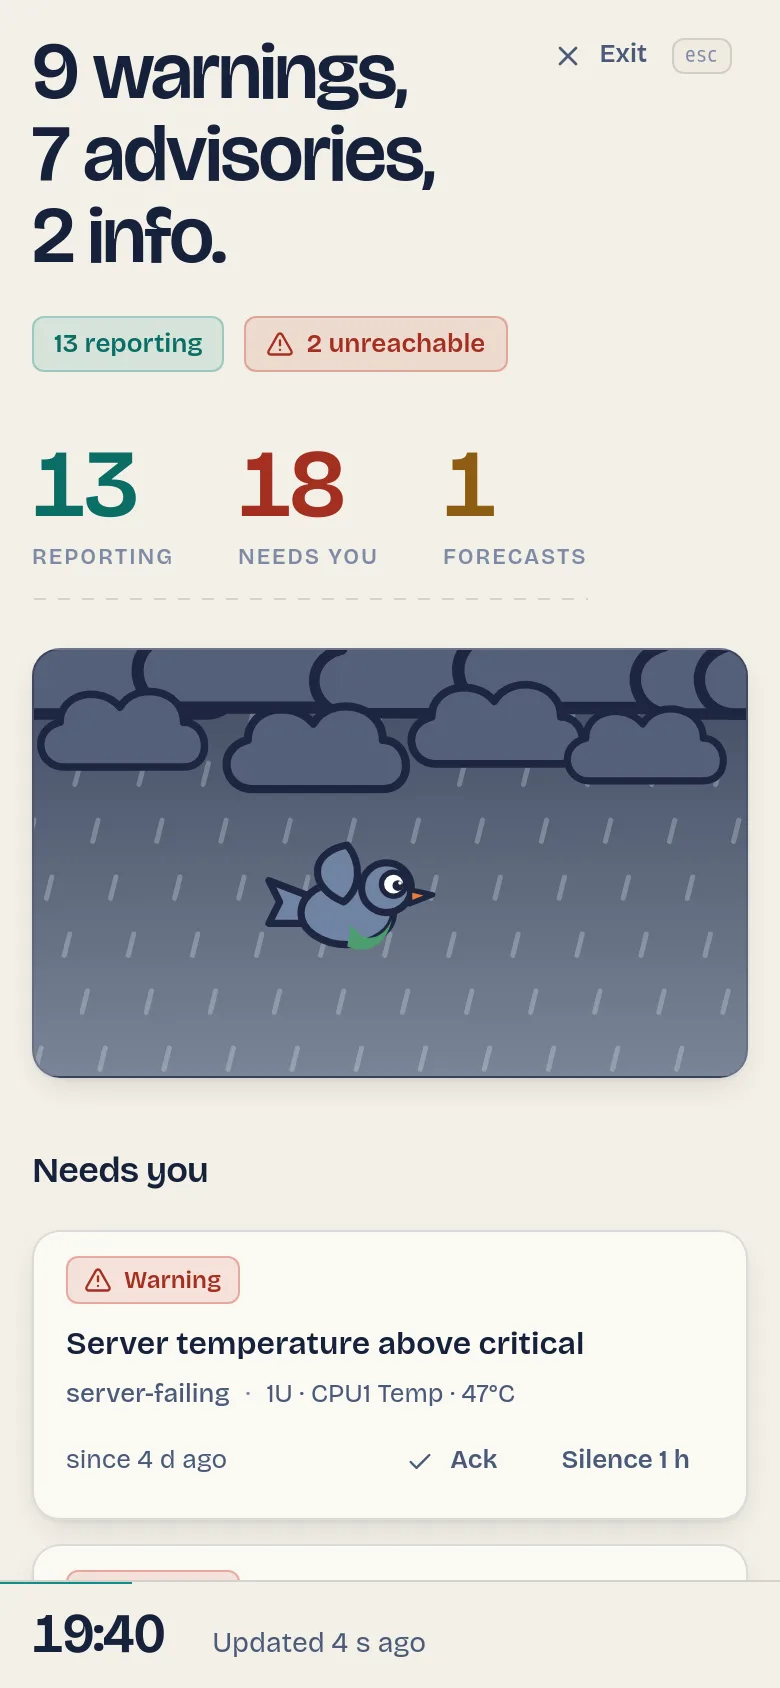
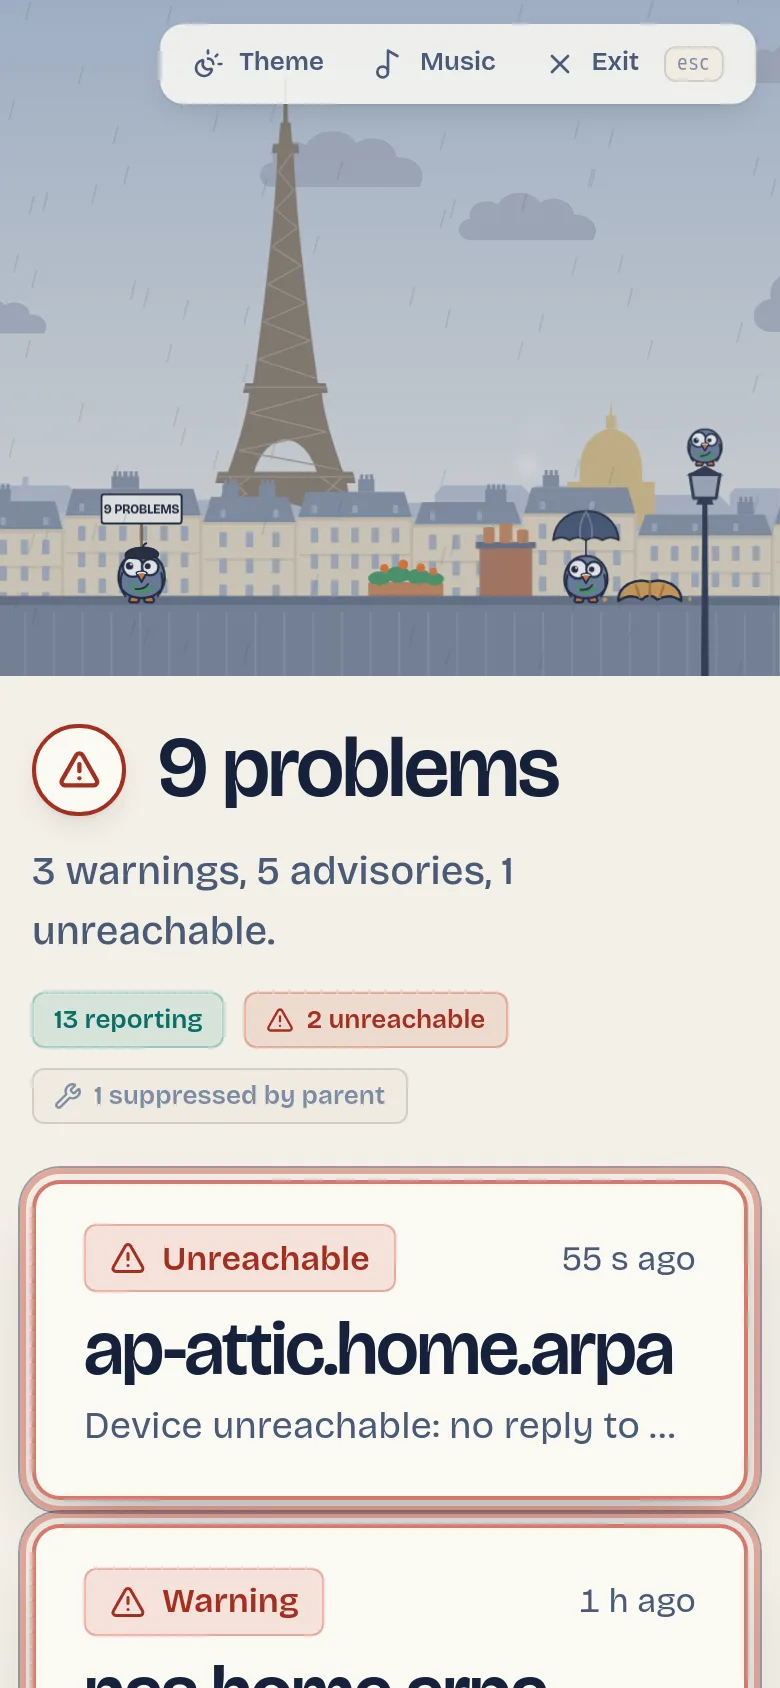
Update the website for Active Directory, the git forges, and the Paris wall
Add Active Directory, GitLab/Forgejo, Nginx/Apache, website change
detection, Synology Drive/Photos, security score, and the snooze/ignore/
clear alert actions to the feature rack and points lists. Mention account
auto-creation being off by default under Accounts.

Refresh the wall-mode hero and phone screenshots (light/dark) against a
live instance to show the new Paris rooftop scene with the Eiffel Tower
and pigeons, replacing the pre-redesign weather window. Verified desktop
(1440px) and mobile (390px) rendering in both themes with a headless
Chromium.

Claude-Session: https://claude.ai/code/session_01T6viFYu2eCRBQzde6eB79H

diff --git a/website/index.html b/website/index.html
@@ -4,7 +4,7 @@
 <meta charset="utf-8">
 <meta name="viewport" content="width=device-width, initial-scale=1">
 <title>DumbMonit: dumb-simple monitoring for homelabs and small teams</title>
-<meta name="description" content="Self-hosted monitoring in one container: SNMP, Proxmox, Synology, TrueNAS, OPNsense, an agent for Linux and Windows, uptime checks and quiet alerts. Open source, Apache 2.0. Alpha.">
+<meta name="description" content="Self-hosted monitoring in one container: SNMP, Proxmox, Synology, TrueNAS, OPNsense, Active Directory, an agent for Linux and Windows, uptime checks and quiet alerts. Open source, Apache 2.0. Alpha.">
 <meta name="color-scheme" content="light dark">
 <meta name="theme-color" content="#f3efe6" media="(prefers-color-scheme: light)">
 <meta name="theme-color" content="#0a1020" media="(prefers-color-scheme: dark)">
@@ -91,7 +91,7 @@
 					<img src="assets/shots/wall-light.webp" alt="Wall mode: the sentence '9 warnings, 7 advisories, 2 info.', readouts for reporting devices, alerts and forecasts, a stormy weather window with the pigeon, and the alerts that need you" width="1440" height="670" fetchpriority="high">
 				</picture>
 			</div>
-			<figcaption>The bulletin, on the wall screen of a test instance with failures switched on. On a quiet day it reads “Clear skies.”</figcaption>
+			<figcaption>The bulletin, on the wall screen of a test instance with failures switched on &mdash; the weather window is a living Paris rooftop with the pigeons. On a quiet day it reads “Clear skies.”</figcaption>
 		</figure>
 	</div>
 </section>
@@ -127,6 +127,7 @@
 					<li><span class="led led-advisory" aria-hidden="true"></span><span class="name">Proxmox Datacenter Manager <span class="plate plate-advisory">Test instance only</span></span><span class="what">Which clusters and backup servers the console still reaches, the whole estate on one page, failed tasks on every site.</span></li>
 					<li><span class="led led-advisory" aria-hidden="true"></span><span class="name">Server hardware (Redfish) <span class="plate plate-advisory">Reference mockups only</span></span><span class="what">Fans, temperatures against the hardware's own thresholds, power supplies and redundancy, drives, memory, the event log. Checked against the DMTF mockups, not yet a real iDRAC, iLO or Supermicro board.</span></li>
 					<li><span class="led" aria-hidden="true"></span><span class="name">Machines with the agent</span><span class="what">Linux and Windows, with macOS and FreeBSD in preview. <a href="#agent">More below.</a></span></li>
+					<li><span class="led" aria-hidden="true"></span><span class="name">Active Directory</span><span class="what">A Windows domain over LDAP with a plain, unprivileged account: FSMO roles, privileged groups, and the facts a domain audit looks for first — Kerberoastable accounts, old krbtgt password, computers without LAPS.</span></li>
 				</ul>
 			</div>
 
@@ -134,7 +135,7 @@
 				<h3>Storage and backups</h3>
 				<ul class="faceplates">
 					<li><span class="led" aria-hidden="true"></span><span class="name">Proxmox Backup Server</span><span class="what">A 30-day backup calendar per machine, failed tasks with their logs, verify and GC jobs, datastore fill-up forecast.</span></li>
-					<li><span class="led" aria-hidden="true"></span><span class="name">Synology DSM</span><span class="what">Volumes, pools, disks and SMART, temperature, Hyper Backup and Active Backup for Business with the age of the last success.</span></li>
+					<li><span class="led" aria-hidden="true"></span><span class="name">Synology DSM</span><span class="what">Volumes, pools, disks and SMART, temperature, Hyper Backup and Active Backup for Business with the age of the last success, plus Drive and Photos package status.</span></li>
 					<li><span class="led led-advisory" aria-hidden="true"></span><span class="name">TrueNAS <span class="plate plate-advisory">Test instance only</span></span><span class="what">The pool that lost a disk and still serves data, with the disk named; scrubs, quotas, snapshots, replication, SMART.</span></li>
 					<li><span class="led" aria-hidden="true"></span><span class="name">Plakar backups</span><span class="what">Age and result of the last snapshot per repository, through the agent.</span></li>
 				</ul>
@@ -143,10 +144,13 @@
 			<div class="rack-group">
 				<h3>Services and applications</h3>
 				<ul class="faceplates">
-					<li><span class="led" aria-hidden="true"></span><span class="name">Uptime checks</span><span class="what">HTTP(S) with status, keyword, JSON path and certificate; TCP port; DNS records; ping; TLS certificate expiry. History bar, response time, availability.</span></li>
+					<li><span class="led" aria-hidden="true"></span><span class="name">Uptime checks</span><span class="what">HTTP(S) with status, keyword, JSON path and certificate; TCP port; DNS records; ping; TLS certificate expiry; NTP offset and stratum. History bar, response time, availability.</span></li>
 					<li><span class="led" aria-hidden="true"></span><span class="name">Application sessions</span><span class="what">SMTP, PostgreSQL, MySQL and MariaDB, MQTT and WebSocket: a real login or handshake, so “up but refusing you” is not reported as “up”.</span></li>
 					<li><span class="led" aria-hidden="true"></span><span class="name">Heartbeats</span><span class="what">A cron job or backup script calls a secret URL; when it stops calling, you hear about it. Uptime Kuma push-compatible.</span></li>
 					<li><span class="led" aria-hidden="true"></span><span class="name">Docker containers</span><span class="what">State, health, restarts, image age and available updates, through the agent. Opt-in restart and update inside a maintenance window.</span></li>
+					<li><span class="led" aria-hidden="true"></span><span class="name">Website change detection</span><span class="what">Watch a page, or a whole site crawled from its sitemap, for changes in its visible text: before/after text, a line diff and, when available, screenshots.</span></li>
+					<li><span class="led" aria-hidden="true"></span><span class="name">GitLab and Forgejo/Gitea</span><span class="what">Sidekiq queues, CI/CD runners, scheduled tasks and database migrations on a self-managed Git forge. An ordinary access token proves the instance is up.</span></li>
+					<li><span class="led" aria-hidden="true"></span><span class="name">Nginx and Apache</span><span class="what">Active/idle workers or connections, request and byte rates, through <code>stub_status</code> or <code>mod_status</code>. No account needed.</span></li>
 					<li><span class="led led-advisory" aria-hidden="true"></span><span class="name">Proxmox Mail Gateway <span class="plate plate-advisory">Test instance only</span></span><span class="what">Postfix queues and the oldest stuck message, mail filtered today, quarantine sizes, the age of antivirus and antispam signatures.</span></li>
 				</ul>
 			</div>
@@ -200,7 +204,7 @@
 				</div>
 				<ul class="points">
 					<li><strong>Dependencies</strong><p>Declare a switch as the parent of what sits behind it. When it goes down you get one notification, not thirty; the others read “Suppressed by parent”.</p></li>
-					<li><strong>Grouped by host</strong><p>A NAS whose array degrades sends one message per cycle, not one per disk. Reminders, escalation and acknowledgement (“I know, stop reminding me”) are built in.</p></li>
+					<li><strong>Grouped by host</strong><p>A NAS whose array degrades sends one message per cycle, not one per disk. Reminders, escalation, acknowledgement, snooze, per-device ignore and clearing resolved history are all built in.</p></li>
 					<li><strong>Baselines that learn first</strong><p>Anomaly detection with no threshold to tune: 168 buckets, one per hour of the week. It stays silent for its first 14 days and only shows what it would have fired.</p></li>
 					<li><strong>Forecasts</strong><p>“This filesystem will be full within four days” is listed as a forecast, apart from what is broken right now.</p></li>
 					<li><strong>Maintenance and a notification policy</strong><p>One-off or weekly windows, hysteresis, flap hold, quiet hours, batching and an hourly cap, so a bad night does not become two hundred pushes.</p></li>
@@ -270,8 +274,9 @@ curl -sSL http://server:8080/install.sh | sh -s -- \
 			</div>
 			<div>
 				<ul class="points">
-					<li><strong>Wall mode</strong><p>The bulletin alone, full screen, for a room monitor. It keeps the screen awake.</p></li>
-					<li><strong>Accounts</strong><p>Admin and viewer roles, optional TOTP second factor, an audit log, and single sign-on over OpenID Connect (Authentik, Authelia, Keycloak, Pocket ID…).</p></li>
+					<li><strong>Wall mode</strong><p>The bulletin alone, full screen, for a room monitor: a living Paris rooftop with the Eiffel Tower and the DumbMonit pigeons, an OLED theme for a screen left on for days, and wall music &mdash; Spotify Connect turns the screen into a speaker.</p></li>
+					<li><strong>Security score</strong><p>Every supported device gets a 0–100 score and an A–F grade from the vendor’s own best-practice checks, PingCastle-style: category, severity, evidence, remediation, and a worst-first Security page.</p></li>
+					<li><strong>Accounts</strong><p>Admin and viewer roles, optional TOTP second factor, an audit log, and single sign-on over OpenID Connect (Authentik, Authelia, Keycloak, Pocket ID…), account creation off by default.</p></li>
 					<li><strong>Plays well with what you run</strong><p><code>/metrics</code>, <code>/federate</code> and a Prometheus-compatible endpoint let an existing Grafana read DumbMonit's data.</p></li>
 					<li><strong>Open, documented API</strong><p>Every route behind <code>/api/openapi.json</code> (OpenAPI 3.1): scoped tokens (<code>dmt_…</code>, read or write) that can expire, be restricted to a network, and are rate-limited. <a href="https://dumbmonit.readthedocs.io/en/latest/reference/api/">API reference</a></p></li>
 					<li><strong>An assistant over MCP</strong><p>27 tools for Claude Code, Claude Desktop, ChatGPT, VS Code or Cursor: read status, devices, alerts, metrics and agents; a write token can also silence, acknowledge, add a device or restart a container. Secrets never come back. <a href="https://dumbmonit.readthedocs.io/en/latest/using/assistant/">Connect an assistant</a></p></li>
